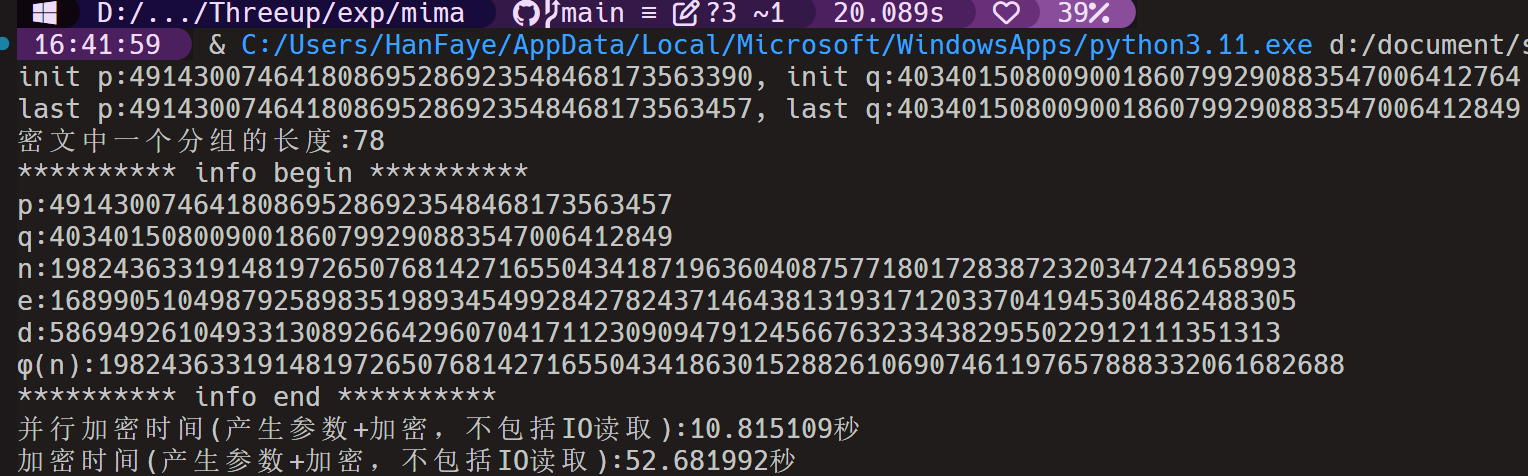
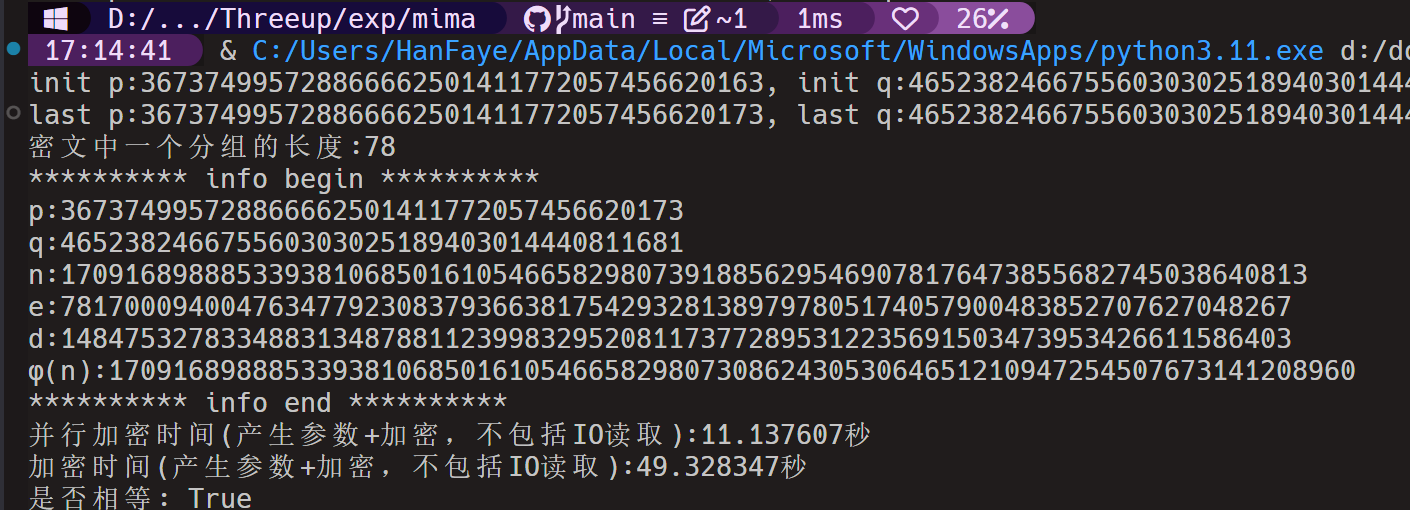
lab2:多线程中密文顺序

diff --git a/exp2/RSA_threads.py b/exp2/RSA_threads.py
@@ -216,15 +216,21 @@ def encodethread(content: str) -> str:
     miwen = ''
     with futures.ThreadPoolExecutor(max_workers=20) as executor:
         to_do = []
-        for i in range(0, len(c), 6):
-            buf = str(c[i:i+6])
+        results = [None] * (len(c) // 6)  # 创建一个列表来存储结果
+
+        for index in range(0, len(c), 6):
+            buf = str(c[index:index+6])
             future = executor.submit(quick_pow, int(buf), e, p*q)
-            to_do.append(future)
-        
-        
-        for future in futures.as_completed(to_do):
+            to_do.append((index // 6, future))  # 记录提交的顺序和任务
+
+        # 等待所有任务完成并按照提交顺序获取结果
+        for idx, future in to_do:
             res = future.result()
-            miwen += str(res).zfill(lenmod)
+            results[idx] = str(res).zfill(lenmod)
+
+        # 按照提交顺序构建 miwen
+        miwen = ''.join(results)
+        return miwen
 
             
             
@@ -240,7 +246,7 @@ if __name__ == '__main__':
 
     p, q, e, d, lenmod = get_Params()
     t1 = time.time()
-    encodethread(content)
+    minthread = encodethread(content)
     t2 = time.time()
     print(f'并行加密时间(产生参数+加密，不包括IO读取):{t2-t1:.6f}秒')
     
@@ -255,5 +261,6 @@ if __name__ == '__main__':
         miwen += temp
     t2 = time.time()
     print(f'加密时间(产生参数+加密，不包括IO读取):{t2-t1:.6f}秒')
+    print("是否相等:", minthread==miwen)
 
   
